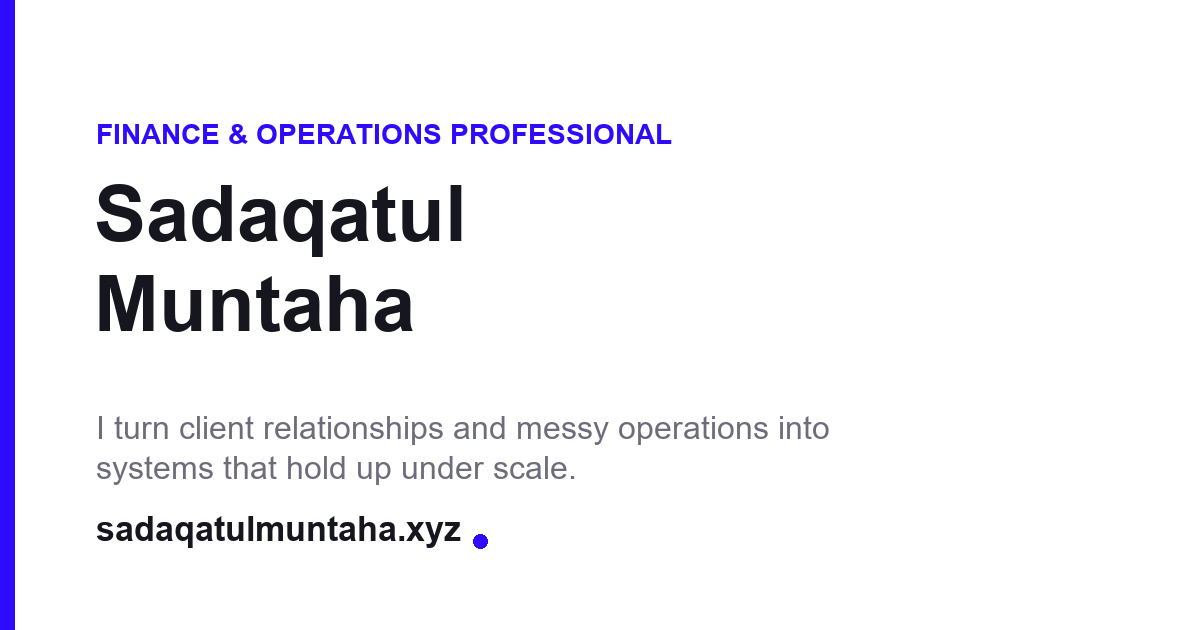
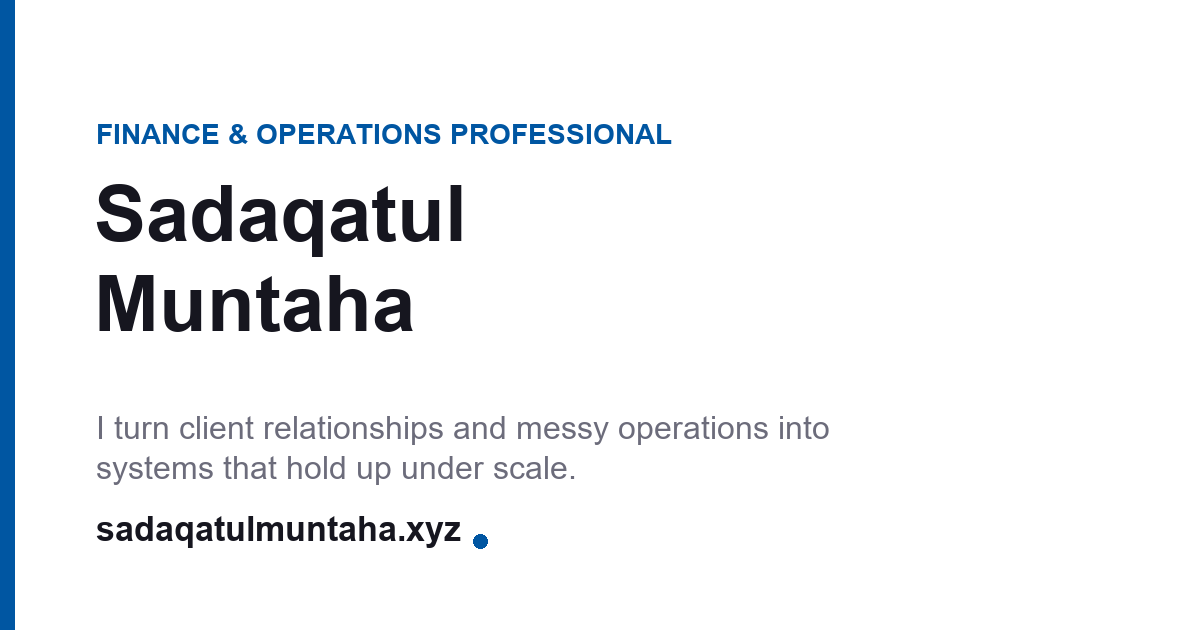
Change accent color from generic electric blue to Chevron's brand blue
Swaps --accent/--accent-ink/--accent-soft, all favicon/icon/OG assets,
theme-color meta tags, and site.webmanifest from #2e0bfc to #0056a2
(Chevron's brand blue, per brandpalettes.com and other brand-color sources).

Changed region(s): [[0.0, 0.0, 0.0308, 1.0], [0.0617, 0.181, 0.555, 0.2413], [0.37, 0.8444, 0.4317, 0.8746]]

diff --git a/index.html b/index.html
@@ -9,7 +9,7 @@
 <meta name="keywords" content="Sadaqatul Muntaha, Muntaha, Finance Professional, Operations Manager, Client Relationship Management, BRAC University, Chevron Bangladesh">
 <meta name="robots" content="index,follow,max-image-preview:large">
 <link rel="canonical" href="https://sadaqatulmuntaha.xyz/">
-<meta name="theme-color" content="#2e0bfc">
+<meta name="theme-color" content="#0056a2">
 
 <!-- Icons -->
 <link rel="icon" href="/favicon.ico" sizes="any">
@@ -82,9 +82,9 @@ ul{list-style:none}
   --muted:#6c6c7b;
   --line:#ececf1;
   --line-2:#dcdce4;
-  --accent:#2e0bfc;
-  --accent-ink:#2408c4;
-  --accent-soft:#eeeafe;
+  --accent:#0056a2;
+  --accent-ink:#003b6f;
+  --accent-soft:#ebf1f8;
   --coral:#ff6a3d;
 
   --pad:clamp(1.15rem,4.5vw,4.5rem);

diff --git a/blog/posts/what-40000-scouts-taught-me-about-operations.html b/blog/posts/what-40000-scouts-taught-me-about-operations.html
@@ -8,7 +8,7 @@
 <meta name="author" content="Sadaqatul Muntaha">
 <meta name="robots" content="index,follow,max-image-preview:large">
 <link rel="canonical" href="https://sadaqatulmuntaha.xyz/blog/posts/what-40000-scouts-taught-me-about-operations.html">
-<meta name="theme-color" content="#2e0bfc">
+<meta name="theme-color" content="#0056a2">
 <link rel="icon" href="/favicon.ico" sizes="any">
 <link rel="icon" href="/favicon.svg" type="image/svg+xml">
 <link rel="apple-touch-icon" href="/apple-touch-icon.png">

diff --git a/blog/index.html b/blog/index.html
@@ -8,7 +8,7 @@
 <meta name="author" content="Sadaqatul Muntaha">
 <meta name="robots" content="index,follow,max-image-preview:large">
 <link rel="canonical" href="https://sadaqatulmuntaha.xyz/blog/">
-<meta name="theme-color" content="#2e0bfc">
+<meta name="theme-color" content="#0056a2">
 <link rel="icon" href="/favicon.ico" sizes="any">
 <link rel="icon" href="/favicon.svg" type="image/svg+xml">
 <link rel="apple-touch-icon" href="/apple-touch-icon.png">
